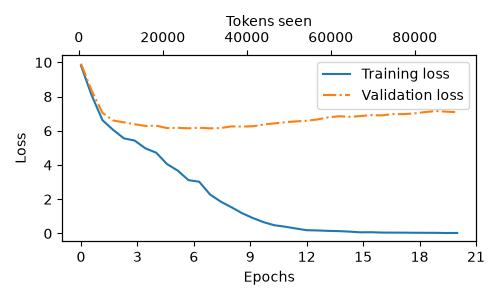
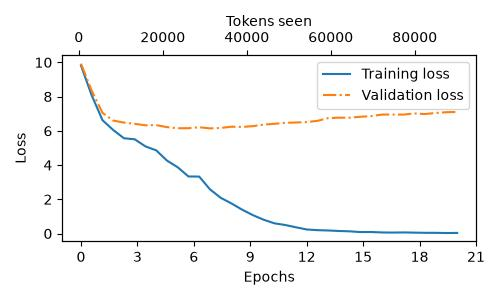
updated ch 5

diff --git a/ch05/ex__5_3_decoding.py b/ch05/ex__5_3_decoding.py
@@ -1,0 +1,107 @@
+import torch
+import tiktoken
+import matplotlib.pyplot as plt
+from matplotlib.ticker import MaxNLocator
+from ex__5_1_gen_text import calc_loss_batch, calc_loss_loader, generate_text_simple, text_to_token_ids, token_ids_to_text, init_gpt_model, set_data_loaders
+
+def train_model_simple(model,train_loader, val_loader, 
+                       optimizer, device, num_epochs, 
+                       eval_freq, eval_iter, start_context, tokenizer):
+
+    train_losses,val_losses,track_tokens_seen=[],[],[]
+    tokens_seen,global_step=0,-1
+
+    for epoch in range(num_epochs):
+        model.train()
+        for input_batch, target_batch in train_loader:
+            optimizer.zero_grad()
+            loss=calc_loss_batch(input_batch, target_batch, model, device)
+            loss.backward()
+            optimizer.step()
+            tokens_seen+=input_batch.numel()
+            global_step+=1
+
+            if global_step % eval_freq == 0:
+                train_loss, val_loss = evaluate_model(
+                    model, train_loader, val_loader, device, eval_iter
+                )
+                train_losses.append(train_loss)
+                val_losses.append(val_loss)
+                track_tokens_seen.append(tokens_seen)
+                print(f"EP {epoch+1} (Step {global_step:06d}): Train Loss {train_loss:.3f}, Val Loss {val_loss:.3f}")
+        
+        generate_and_print_sample(model,tokenizer, device, start_context)
+    
+    return train_losses, val_losses, track_tokens_seen
+
+def evaluate_model(model,train_loader,val_loader,device,eval_iter):
+    model.eval()
+    with torch.no_grad():
+        train_loss=calc_loss_loader(train_loader,model,device,num_batches=eval_iter)
+        val_loss=calc_loss_loader(val_loader,model,device,num_batches=eval_iter)
+    model.train()
+    return train_loss,val_loss
+
+def generate_and_print_sample(model,tokenizer, device, start_context):
+    model.eval()
+    context_size=model.pos_emb.weight.shape[0]
+    encoded=text_to_token_ids(start_context,tokenizer).to(device)
+    with torch.no_grad():
+        token_ids=generate_text_simple(model=model, idx=encoded,max_new_tokens=50,context_size=context_size)
+    decoded_text=token_ids_to_text(token_ids,tokenizer)
+    print(decoded_text.replace("\n"," "))
+    model.train()
+
+def plot_losses(epochs_seen,tokens_seen, train_losses, val_losses, fname):
+    fig, ax1 = plt.subplots(figsize=(5, 3))
+    ax1.plot(epochs_seen, train_losses, label="Training loss")
+    ax1.plot(
+        epochs_seen, val_losses, linestyle="-.", label="Validation loss"
+    )
+    ax1.set_xlabel("Epochs")
+    ax1.set_ylabel("Loss")
+    ax1.legend(loc="upper right")
+    ax1.xaxis.set_major_locator(MaxNLocator(integer=True))
+    ax2 = ax1.twiny()
+    ax2.plot(tokens_seen, train_losses, alpha=0)
+    ax2.set_xlabel("Tokens seen")
+    fig.tight_layout()
+    plt.savefig(fname)
+
+if __name__ == "__main__":
+    file_path="../ch02/the-verdict.txt"
+    with open(file_path,"r",encoding="utf-8") as file:
+        text_data=file.read()
+    device=torch.device("cuda" if torch.cuda.is_available() else "cpu")
+    tokenizer=tiktoken.get_encoding("gpt2")
+    model,GPT_CONFIG_124M = init_gpt_model()
+    model.to(device)
+    optimizer=torch.optim.AdamW(
+        model.parameters(),
+        lr=0.0004, weight_decay=0.1
+    )
+    num_epochs=7
+    train_loader, val_loader = set_data_loaders(text_data, train_ratio=0.9, GPT_CONFIG_124M=GPT_CONFIG_124M)
+    
+    train_losses, val_losses, tokens_seen=train_model_simple(model,train_loader,val_loader,
+                                                             optimizer,device,num_epochs=num_epochs,
+                                                             eval_freq=5,eval_iter=5,start_context="Every effort moves you", 
+                                                             tokenizer=tokenizer)
+
+    epochs_tensor = torch.linspace(0, num_epochs, len(train_losses))
+    plot_losses(epochs_tensor, tokens_seen, train_losses, val_losses, "ex5.3_training.jpg")
+
+    model.to("cpu")
+    model.eval()
+
+    tokenizer=tiktoken.get_encoding("gpt2")
+    token_ids=generate_text_simple(
+        model=model,
+        idx=text_to_token_ids("Every effor moves you",tokenizer),
+        max_new_tokens=25,
+        context_size=GPT_CONFIG_124M['context_length']
+    )
+
+    print("Output text:",token_ids_to_text(token_ids,tokenizer))
+
+

diff --git a/ch05/ex__5_3_1_tempscaling.py b/ch05/ex__5_3_1_tempscaling.py
@@ -1,0 +1,44 @@
+#%% Dependencies
+import torch
+
+#%% Temp Scaling Simple Vocab
+
+vocab = { 
+    "closer": 0,
+    "every": 1, 
+    "effort": 2, 
+    "forward": 3,
+    "inches": 4,
+    "moves": 5, 
+    "pizza": 6,
+    "toward": 7,
+    "you": 8,
+} 
+inverse_vocab = {v: k for k, v in vocab.items()}
+
+
+# %% Multinomial Sample
+'''
+    Multinomial treats the probas as a weighted die.  Instead of choosing
+    the max, it samples from the distribution.  This is a more realistic
+    way to generate text, as it allows for more diversity in the output.
+'''
+next_token_logits = torch.tensor(
+    [4.51, 0.89, -1.90, 6.75, 1.63, -1.62, -1.89, 6.28, 1.79]
+)
+probas=torch.softmax(next_token_logits,dim=0)
+next_token_id=torch.multinomial(probas,num_samples=1).item()
+print(inverse_vocab[next_token_id])
+
+# %% Test multinomial outputs
+
+def print_sampled_tokens(probas):
+     torch.manual_seed(123)
+     sample=[torch.multinomial(probas,num_samples=1).item() for i in range(1_000)]
+     sampled_ids=torch.bincount(torch.tensor(sample))
+     for i,freq in enumerate(sampled_ids):
+          print(f"{freq} x {inverse_vocab[i]}")
+
+print_sampled_tokens(probas)
+
+# %% 
